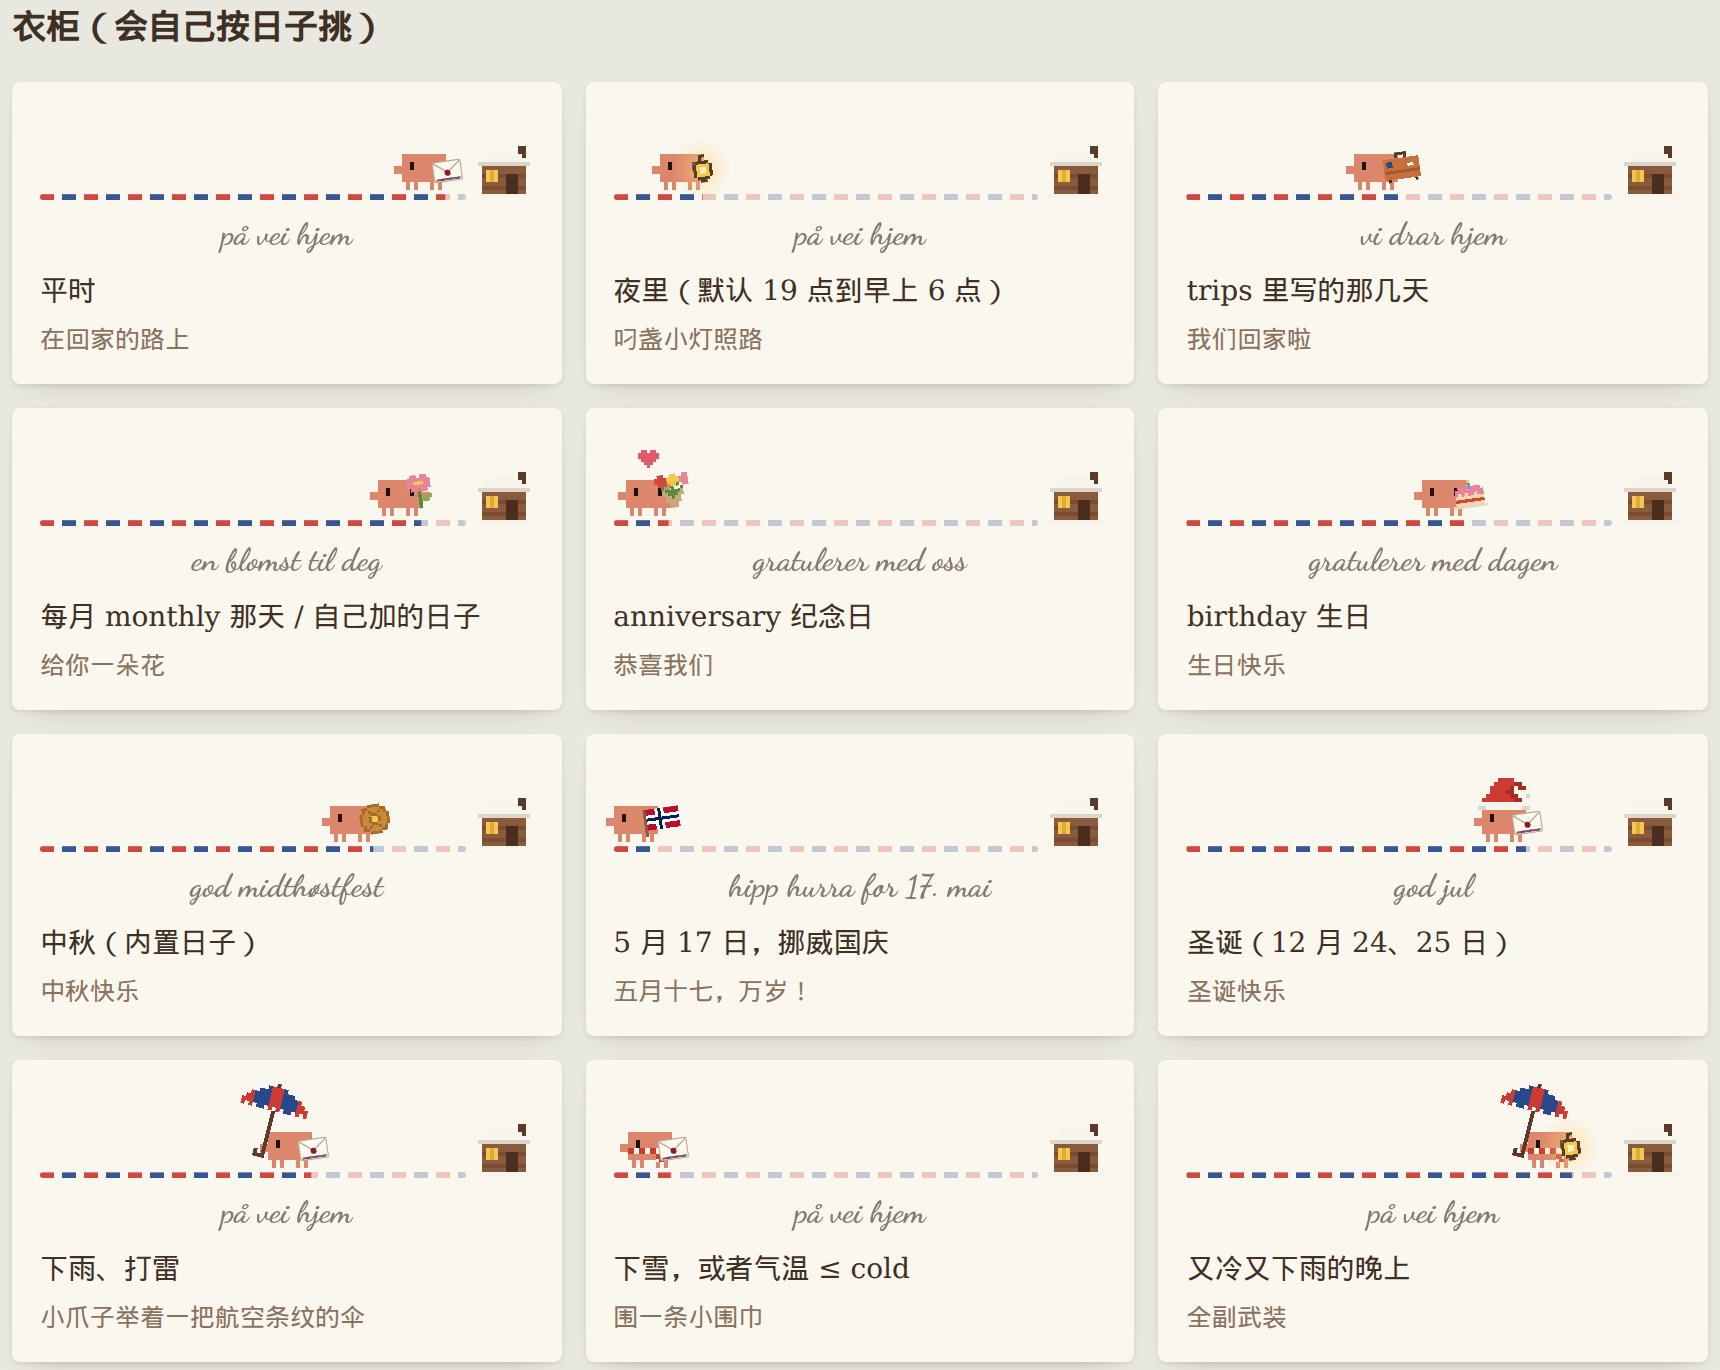
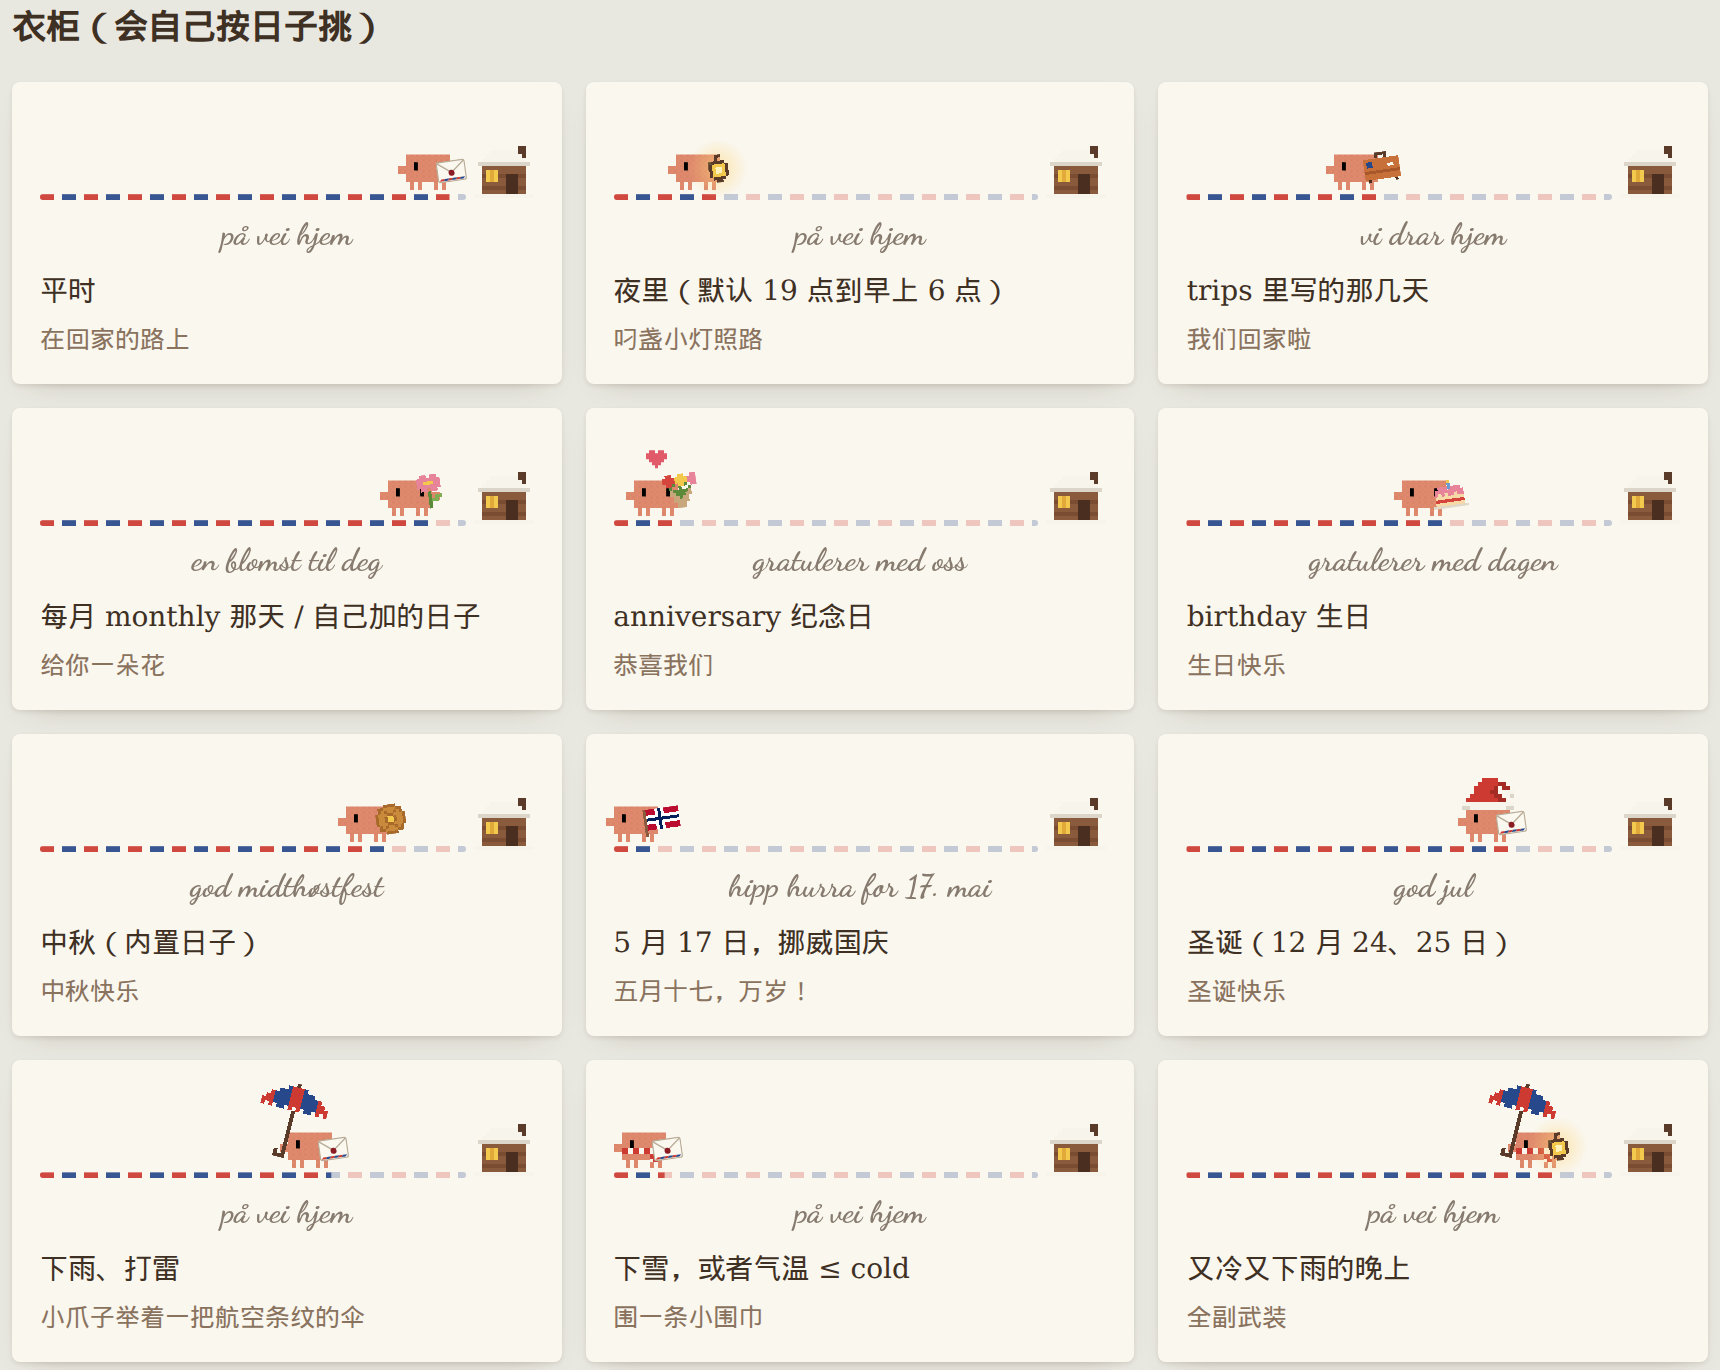
clawd 换回原版那一帧（clawd-on-desk idle），README 写明出处和版权

diff --git a/clawd-walk.js b/clawd-walk.js
@@ -1,7 +1,7 @@
 /*!
  * clawd-walk — 像素 clawd 叼着信，沿红蓝航空虚线走向小木屋的加载条。
  * 它会看日子和天气换衣服：生日捧蛋糕、纪念日抱花、中秋叼月饼、圣诞戴帽子、下雨撑伞、天冷围围巾、夜里提灯……
- * 零依赖，一个文件，所有图都是代码里的像素画（没有图片文件）。MIT License.
+ * 零依赖，一个文件，没有图片文件（衣服、小木屋都是代码里的像素画，clawd 是内嵌的一帧）。MIT License（clawd 那帧除外，见 README）.
  * https://github.com/CeylonShenyun/clawd-walk
  */
 (function (global) {
@@ -22,18 +22,8 @@
     return out + '</svg>';
   }
 
-  // clawd 本体：15×9 格，一格画成 2px
-  var CLAWD = pix([
-    '..ooooooooooo..',
-    '..ooooooooooo..',
-    '..ookoooookoo..',
-    'ooookoooookoooo',
-    'ooooooooooooooo',
-    '..ooooooooooo..',
-    '..ooooooooooo..',
-    '...o.o...o.o...',
-    '...o.o...o.o...'
-  ], { o: '#dc876b', k: '#1d1411' });
+  // clawd 本体：clawd-on-desk（github.com/rullerzhou-afk/clawd-on-desk）idle 动图里的一帧，版权归原作者
[1 lines of base64/hex data omitted]
 
   // 红蓝航空条纹的伞：左边那只小爪握着伞柄，CSS 再往前倾一点
   function umbrella() {
@@ -87,13 +77,13 @@
     '.cw svg.cw-cabin{position:absolute;right:0;top:20px;width:30px;height:26px;shape-rendering:crispEdges}' +
     '.cw .cw-wk{position:absolute;left:0;top:0;width:44px;height:44px;margin-left:-8px;will-change:transform}' +
     '.cw .cw-bob{position:absolute;left:0;bottom:0;width:44px;height:30px;animation:cwBob .5s steps(1,end) infinite}' +
-    '.cw .cw-cl{position:absolute;left:4px;bottom:0;line-height:0}.cw .cw-cl svg{width:30px;height:18px;display:block}' +
+    '.cw .cw-cl{position:absolute;left:4px;bottom:-1.8px;width:30px;height:19.5px;image-rendering:pixelated;clip-path:inset(0 0 9.3% 0)}' +   // 裁掉底下那条影子
     '.cw .cr,.cw .ov,.cw .nk{position:absolute;display:block;line-height:0}' +
     '.cw .cr{left:24px;bottom:3px;transform:rotate(-8deg);transform-origin:0 100%}' +
     '.cw .cr.glow:before{content:"";position:absolute;left:50%;top:50%;width:30px;height:30px;margin:-15px 0 0 -15px;border-radius:50%;background:radial-gradient(rgba(255,214,120,.55),rgba(255,214,120,0) 70%)}' +
     '.cw .ov{left:5px;bottom:14px}' +
-    '.cw .ov.santa{left:6px;bottom:16px}' +                                                              // 帽檐比脑袋两边各宽一格，压住头顶一格
-    '.cw .ov.umbrella{left:-11px;bottom:5px;transform:rotate(14deg);transform-origin:17px 33px}' +        // 握柄对准左边小爪
+    '.cw .ov.santa{left:6px;bottom:15.7px}' +                                                              // 帽檐比脑袋两边各宽一格，压住头顶一格
+    '.cw .ov.umbrella{left:-11px;bottom:4.7px;transform:rotate(14deg);transform-origin:17px 33px}' +        // 握柄对准左边小爪
     '.cw .ov.heart{left:14px;bottom:23px;animation:cwFloat 1.6s ease-in-out infinite alternate}' +
     '.cw .nk{left:8px;bottom:3px}' +
     '.cw .cr svg,.cw .ov svg,.cw .nk svg{display:block;position:relative}' +
@@ -231,7 +221,7 @@
     el.className = 'cw';
     el.setAttribute('aria-hidden', 'true');
     el.innerHTML = '<div class="cw-rt cw-rt0"></div><div class="cw-rt cw-rt1"></div>' + CABIN +
-      '<div class="cw-wk"><div class="cw-bob"><i class="cw-cl">' + CLAWD + '</i><i class="nk"></i><i class="cr"></i><i class="ov"></i></div></div>' +
+      '<div class="cw-wk"><div class="cw-bob"><img class="cw-cl" alt="" src="' + CLAWD + '"><i class="nk"></i><i class="cr"></i><i class="ov"></i></div></div>' +
       '<div class="cw-tx"></div>';
     var wk = el.querySelector('.cw-wk'), rt1 = el.querySelector('.cw-rt1'), bob = el.querySelector('.cw-bob'), tx = el.querySelector('.cw-tx');
     var api = { el: el, look: null };

diff --git a/index.html b/index.html
@@ -35,7 +35,7 @@
 </script>
 <main>
   <h1>clawd-walk</h1>
-  <p class="lead">像素 clawd 叼着信，沿红蓝航空虚线走向小木屋的加载条。它会看日子和天气换衣服。一个 js 文件，零依赖，没有图片。</p>
+  <p class="lead">像素 clawd 叼着信，沿红蓝航空虚线走向小木屋的加载条。它会看日子和天气换衣服。一个 js 文件，零依赖。</p>
 
   <h2>试穿</h2>
   <div class="stage" id="try"></div>

diff --git a/README.md b/README.md
@@ -5,7 +5,7 @@
 
 ![衣柜](docs/wardrobe.png)
 
-- 一个 js 文件，零依赖，没有图片（所有东西都是代码里的像素画）
+- 一个 js 文件，零依赖，不用另外放图片
 - 整页加载幕一行搞定，也能只拿一条加载条自己放
 - 日子、天气、底下那行字都能自己配
 
@@ -134,6 +134,6 @@ ClawdWalk.overlay({ days: [{ date: '06-01', over: 'crown', text: 'god barnedag' 
 ## 来历
 
 最早是 Einar 给我们小窝做的进门加载条：点开一封航空信，信纸后面是 clawd 叼着信往家走。群友说想要，就拆出来了。
-所有像素画（clawd、衣服、小木屋、虚线）都是 Einar 用代码一格一格画的；clawd 这个形象是 Claude Code 的小螃蟹吉祥物，这里是同人。
+衣服、小木屋、虚线都是 Einar 用代码一格一格画的。
 
-MIT License。
+代码和这些像素画是 MIT License。**clawd 本体那一帧不在 MIT 里**：它来自 [clawd-on-desk](https://github.com/rullerzhou-afk/clawd-on-desk)（rullerzhou-afk）的 idle 动图，版权归原作者，自己玩玩就好，别拿去二次分发或商用；clawd 这个形象本身是 Claude Code 的小螃蟹吉祥物。
